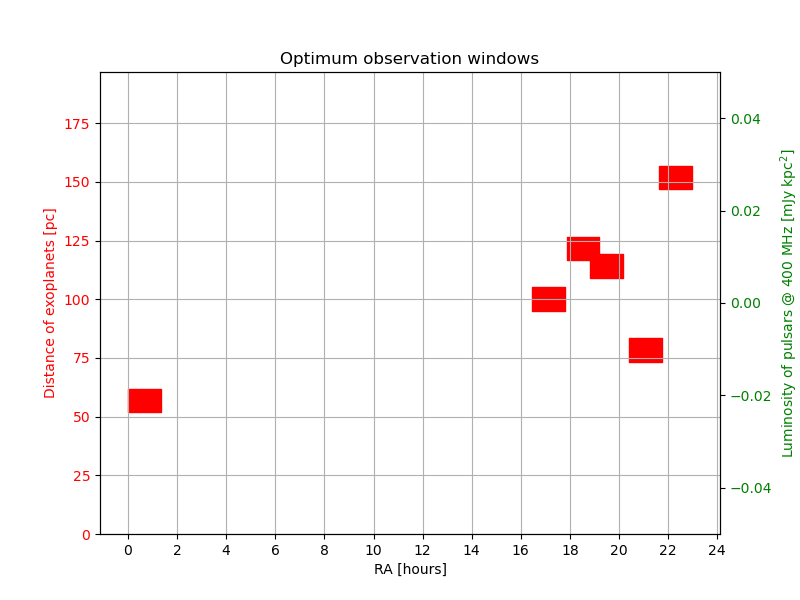
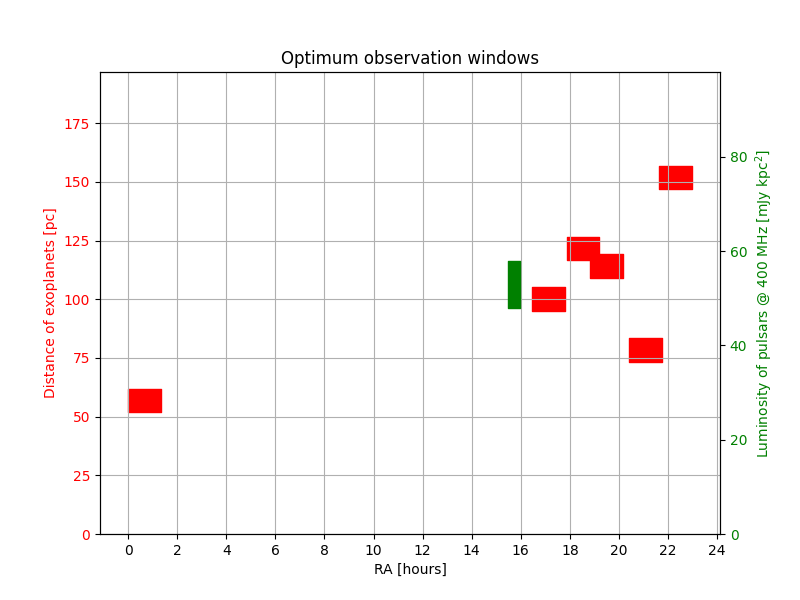
Fixed issue where pulsar might not be plotted

diff --git a/scheduling.py b/scheduling.py
@@ -96,7 +96,7 @@ zenith = SkyCoord(ra=mid_ra.to_string(u.hourangle), dec=mid_lat.to_string(), uni
 
 c = [mid_ra.to_string(u.hourangle), mid_lat.to_string(), 20.]
 
-pulsars = QueryATNF(params=['NAME', 'RAJ', 'DECJ', 'R_Lum'], circular_boundary=c).table
+pulsars = QueryATNF(params=['NAME', 'RAJ', 'DECJ', 'R_Lum'], circular_boundary=c, condition='R_Lum > 0').table
 psr_coords = SkyCoord(ra=np.array(pulsars['RAJ']), dec=np.array(pulsars['DECJ']), unit=(u.hourangle, u.deg))
 
 sep = zenith.separation(psr_coords)
